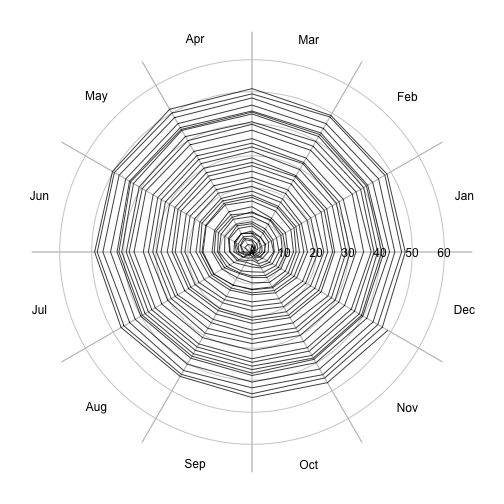
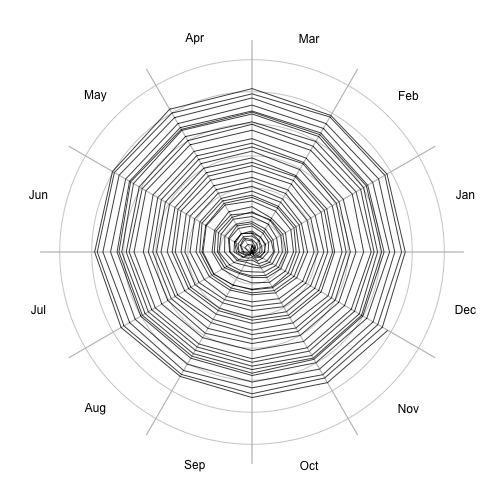
hodograph

diff --git a/_site/r/2014/02/08/hodograph.html b/_site/r/2014/02/08/hodograph.html
@@ -135,7 +135,10 @@
 51
 52
 53
-54</code></pre></div></td><td class='code'><div class='highlight'><pre>hodograph <span class='o'>&lt;-</span> <span class='kr'>function</span><span class='p'>(</span>x<span class='p'>,</span> y<span class='p'>,</span> t<span class='p'>,</span> rings<span class='p'>,</span> tcut <span class='o'>=</span> c<span class='p'>(</span><span class='s'>&quot;daily&quot;</span><span class='p'>,</span> <span class='s'>&quot;yearly&quot;</span><span class='p'>),</span> <span class='kc'>...</span><span class='p'>)</span> <span class='p'>{</span>
+54
+55
+56</code></pre></div></td><td class='code'><div class='highlight'><pre>hodograph <span class='o'>&lt;-</span> <span class='kr'>function</span><span class='p'>(</span>x<span class='p'>,</span> y<span class='p'>,</span> t<span class='p'>,</span> rings<span class='p'>,</span> ringlabels <span class='o'>=</span> <span class='kc'>TRUE</span><span class='p'>,</span> tcut <span class='o'>=</span> c<span class='p'>(</span><span class='s'>&quot;daily&quot;</span><span class='p'>,</span> <span class='s'>&quot;yearly&quot;</span><span class='p'>),</span> 
+    <span class='kc'>...</span><span class='p'>)</span> <span class='p'>{</span>
     tcut <span class='o'>&lt;-</span> match.arg<span class='p'>(</span>tcut<span class='p'>)</span>
     <span class='kr'>if</span> <span class='p'>(</span>missing<span class='p'>(</span>t<span class='p'>))</span> <span class='p'>{</span>
         stop<span class='p'>(</span><span class='s'>&quot;x-y method not coded yet\n&quot;</span><span class='p'>)</span>
@@ -161,20 +164,21 @@
             <span class='c1'>## month lines</span>
             month <span class='o'>&lt;-</span> c<span class='p'>(</span><span class='s'>&quot;Jan&quot;</span><span class='p'>,</span> <span class='s'>&quot;Feb&quot;</span><span class='p'>,</span> <span class='s'>&quot;Mar&quot;</span><span class='p'>,</span> <span class='s'>&quot;Apr&quot;</span><span class='p'>,</span> <span class='s'>&quot;May&quot;</span><span class='p'>,</span> <span class='s'>&quot;Jun&quot;</span><span class='p'>,</span> <span class='s'>&quot;Jul&quot;</span><span class='p'>,</span> <span class='s'>&quot;Aug&quot;</span><span class='p'>,</span> 
                 <span class='s'>&quot;Sep&quot;</span><span class='p'>,</span> <span class='s'>&quot;Oct&quot;</span><span class='p'>,</span> <span class='s'>&quot;Nov&quot;</span><span class='p'>,</span> <span class='s'>&quot;Dec&quot;</span><span class='p'>)</span>
+            rscale <span class='o'>&lt;-</span> max<span class='p'>(</span>rings<span class='p'>)</span>
             <span class='kr'>for</span> <span class='p'>(</span>m <span class='kr'>in</span> <span class='m'>1</span><span class='o'>:</span><span class='m'>12</span><span class='p'>)</span> <span class='p'>{</span>
                 phi <span class='o'>&lt;-</span> <span class='m'>2</span> <span class='o'>*</span> pi <span class='o'>*</span> <span class='p'>(</span>m <span class='o'>-</span> <span class='m'>1</span><span class='p'>)</span><span class='o'>/</span><span class='m'>12</span>
-                lines<span class='p'>(</span>rscale <span class='o'>*</span> cos<span class='p'>(</span>phi<span class='p'>)</span> <span class='o'>*</span> c<span class='p'>(</span><span class='m'>-1.1</span><span class='p'>,</span> <span class='m'>1.1</span><span class='p'>),</span> rscale <span class='o'>*</span> sin<span class='p'>(</span>phi<span class='p'>)</span> <span class='o'>*</span> 
-                  c<span class='p'>(</span><span class='m'>-1.1</span><span class='p'>,</span> <span class='m'>1.1</span><span class='p'>),</span> col <span class='o'>=</span> <span class='s'>&quot;gray&quot;</span><span class='p'>)</span>
+                lines<span class='p'>(</span>rscale <span class='o'>*</span> <span class='m'>1.1</span> <span class='o'>*</span> cos<span class='p'>(</span>phi<span class='p'>)</span> <span class='o'>*</span> c<span class='p'>(</span><span class='m'>-1</span><span class='p'>,</span> <span class='m'>1</span><span class='p'>),</span> rscale <span class='o'>*</span> <span class='m'>1.1</span> <span class='o'>*</span> sin<span class='p'>(</span>phi<span class='p'>)</span> <span class='o'>*</span> 
+                  c<span class='p'>(</span><span class='m'>-1</span><span class='p'>,</span> <span class='m'>1</span><span class='p'>),</span> col <span class='o'>=</span> <span class='s'>&quot;gray&quot;</span><span class='p'>)</span>
                 phi <span class='o'>&lt;-</span> <span class='m'>2</span> <span class='o'>*</span> pi <span class='o'>*</span> <span class='p'>(</span><span class='m'>0.5</span><span class='o'>/</span><span class='m'>12</span> <span class='o'>+</span> <span class='p'>(</span>m <span class='o'>-</span> <span class='m'>1</span><span class='p'>)</span><span class='o'>/</span><span class='m'>12</span><span class='p'>)</span>
-                text<span class='p'>(</span><span class='m'>1.1</span> <span class='o'>*</span> rscale <span class='o'>*</span> cos<span class='p'>(</span>phi<span class='p'>),</span> <span class='m'>1.1</span> <span class='o'>*</span> rscale <span class='o'>*</span> sin<span class='p'>(</span>phi<span class='p'>),</span> month<span class='p'>[</span>m<span class='p'>])</span>
+                text<span class='p'>(</span><span class='m'>1.15</span> <span class='o'>*</span> rscale <span class='o'>*</span> cos<span class='p'>(</span>phi<span class='p'>),</span> <span class='m'>1.15</span> <span class='o'>*</span> rscale <span class='o'>*</span> sin<span class='p'>(</span>phi<span class='p'>),</span> month<span class='p'>[</span>m<span class='p'>])</span>
             <span class='p'>}</span>
             <span class='kr'>for</span> <span class='p'>(</span>r <span class='kr'>in</span> rings<span class='p'>)</span> <span class='p'>{</span>
-                <span class='c1'>## do not mess up the origin with a ring and label</span>
                 <span class='kr'>if</span> <span class='p'>(</span>r <span class='o'>&gt;</span> <span class='m'>0</span><span class='p'>)</span> <span class='p'>{</span>
                   gx <span class='o'>&lt;-</span> r <span class='o'>*</span> cos<span class='p'>(</span>theta<span class='p'>)</span>
                   gy <span class='o'>&lt;-</span> r <span class='o'>*</span> sin<span class='p'>(</span>theta<span class='p'>)</span>
                   lines<span class='p'>(</span>gx<span class='p'>,</span> gy<span class='p'>,</span> col <span class='o'>=</span> <span class='s'>&quot;gray&quot;</span><span class='p'>)</span>
-                  text<span class='p'>(</span>gx<span class='p'>[</span><span class='m'>1</span><span class='p'>],</span> <span class='m'>0</span><span class='p'>,</span> format<span class='p'>(</span>r<span class='p'>))</span>
+                  <span class='kr'>if</span> <span class='p'>(</span>ringlabels<span class='p'>)</span> 
+                    text<span class='p'>(</span>gx<span class='p'>[</span><span class='m'>1</span><span class='p'>],</span> <span class='m'>0</span><span class='p'>,</span> format<span class='p'>(</span>r<span class='p'>))</span>
                 <span class='p'>}</span>
             <span class='p'>}</span>
             points<span class='p'>(</span>xx<span class='p'>,</span> yy<span class='p'>,</span> <span class='kc'>...</span><span class='p'>)</span>
@@ -188,7 +192,7 @@ year <span class='o'>&lt;-</span> as.numeric<span class='p'>(</span>time<span cl
 t0 <span class='o'>&lt;-</span> as.POSIXlt<span class='p'>(</span><span class='s'>&quot;1959-01-01 00:00:00&quot;</span><span class='p'>,</span> tz <span class='o'>=</span> <span class='s'>&quot;UTC&quot;</span><span class='p'>)</span>
 t <span class='o'>&lt;-</span> t0 <span class='o'>+</span> <span class='p'>(</span>year <span class='o'>-</span> year<span class='p'>[</span><span class='m'>1</span><span class='p'>])</span> <span class='o'>*</span> <span class='m'>365</span> <span class='o'>*</span> <span class='m'>86400</span>
 par<span class='p'>(</span>mar <span class='o'>=</span> rep<span class='p'>(</span><span class='m'>1</span><span class='p'>,</span> <span class='m'>4</span><span class='p'>))</span>
-hodograph<span class='p'>(</span>x <span class='o'>=</span> co2 <span class='o'>-</span> co2<span class='p'>[</span><span class='m'>1</span><span class='p'>],</span> t <span class='o'>=</span> t<span class='p'>,</span> tcut <span class='o'>=</span> <span class='s'>&quot;yearly&quot;</span><span class='p'>,</span> type <span class='o'>=</span> <span class='s'>&quot;l&quot;</span><span class='p'>)</span>
+hodograph<span class='p'>(</span>x <span class='o'>=</span> co2 <span class='o'>-</span> co2<span class='p'>[</span><span class='m'>1</span><span class='p'>],</span> t <span class='o'>=</span> t<span class='p'>,</span> tcut <span class='o'>=</span> <span class='s'>&quot;yearly&quot;</span><span class='p'>,</span> type <span class='o'>=</span> <span class='s'>&quot;l&quot;</span><span class='p'>,</span> ringlabels <span class='o'>=</span> <span class='kc'>FALSE</span><span class='p'>)</span>
 </pre></div>
 </td></tr></table>
 <p><img src="/assets/2014-02-08-hodograph.png" alt="center" /></p>

diff --git a/_posts/2014-02-08-hodograph.md b/_posts/2014-02-08-hodograph.md
@@ -50,12 +50,13 @@ hodograph <- function(x, y, t, rings, ringlabels = TRUE, tcut = c("daily", "year
             ## month lines
             month <- c("Jan", "Feb", "Mar", "Apr", "May", "Jun", "Jul", "Aug", 
                 "Sep", "Oct", "Nov", "Dec")
+            rscale <- max(rings)
             for (m in 1:12) {
                 phi <- 2 * pi * (m - 1)/12
-                lines(Rscale * 1.1 * cos(phi) * c(-1, 1), Rscale * 1.1 * sin(phi) * 
+                lines(rscale * 1.1 * cos(phi) * c(-1, 1), rscale * 1.1 * sin(phi) * 
                   c(-1, 1), col = "gray")
                 phi <- 2 * pi * (0.5/12 + (m - 1)/12)
-                text(1.15 * Rscale * cos(phi), 1.15 * Rscale * sin(phi), month[m])
+                text(1.15 * rscale * cos(phi), 1.15 * rscale * sin(phi), month[m])
             }
             for (r in rings) {
                 if (r > 0) {
@@ -78,12 +79,6 @@ t0 <- as.POSIXlt("1959-01-01 00:00:00", tz = "UTC")
 t <- t0 + (year - year[1]) * 365 * 86400
 par(mar = rep(1, 4))
 hodograph(x = co2 - co2[1], t = t, tcut = "yearly", type = "l", ringlabels = FALSE)
-{% endhighlight %}
-
-
-
-{% highlight text %}
-## Error: object 'Rscale' not found
 {% endhighlight %}
 
 ![center]({{ site.url }}/assets/2014-02-08-hodograph.png) 
